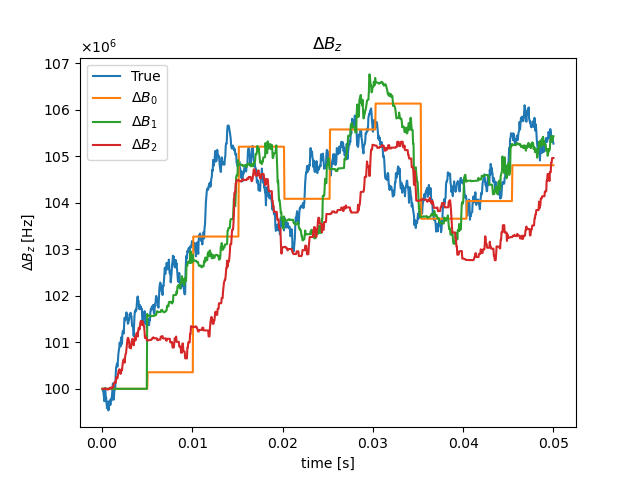
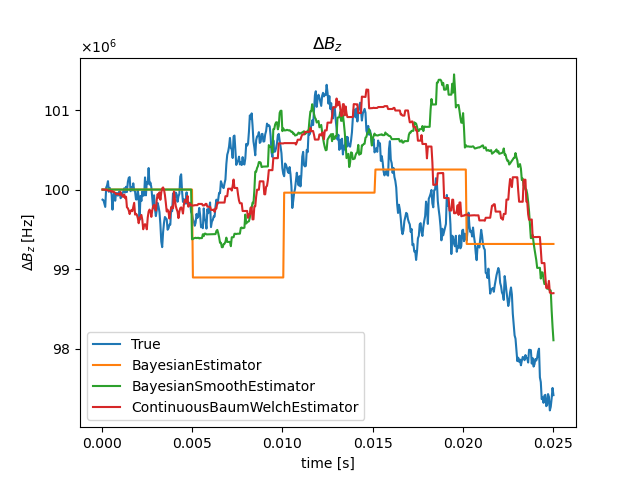
BW Estimator is better than the mere Bayesian one.

diff --git a/dataprocessing/datacollector.py b/dataprocessing/datacollector.py
@@ -7,16 +7,17 @@ import matplotlib.pyplot as plt
 
 
 class DataCollector():
-    def __init__(self):
+    def __init__(self, name_list=[]):
         """
         :params N: number of estimators
         Notes
          * Data structure: {exp_num:int, exp_data:{time:float, ref:float,
              est:list(float)}}
         """
+        self.name_list = name_list
         self.data = []
 
-    def append(self, num_exp, time, ref, *est):
+    def append(self, num_exp, time, ref, est_list):
         """
         :params num_exp: Experiement number
         :params time: Current time
@@ -24,7 +25,7 @@ class DataCollector():
         :params *est: Estimations
         """
         self.data.append({'num_exp': num_exp, 'time': time,
-                         'ref': ref, 'est_list': est})
+                         'ref': ref, 'est_list': est_list})
 
     def mse(self, num_est):
         """
@@ -36,7 +37,7 @@ class DataCollector():
 
         return np.sqrt(res/len(self.data))
 
-    def visualize_exp(self, num_exp, *est):
+    def visualize_exp(self, num_exp, est):
         time = [item['time'] for item in self.data]
         ref = []
         B_list = []
@@ -46,7 +47,7 @@ class DataCollector():
             else:
                 B_list.append([item['est_list'][elem] for item in self.data])
 
-        plt.figure(dpi=100)
+        fig = plt.figure(dpi=100)
         plt.title('$\Delta B_{z}$')
         plt.xlabel('time [s]')
         plt.ylabel('$\Delta B_{z}$ [Hz]')
@@ -55,6 +56,11 @@ class DataCollector():
         if ref:
             plt.plot(time, ref, label='True')
         for i in range(len(B_list)):
-            plt.plot(time, B_list[i], label='$\Delta B_{}$'.format(i))
+            if not self.name_list:
+                plt.plot(time, B_list[i], label='$\Delta B_{}$'.format(i))
+            else:
+                plt.plot(time, B_list[i], label=self.name_list[i])
         plt.legend()
         plt.show()
+
+        return fig

diff --git a/running_demo.py b/running_demo.py
@@ -8,6 +8,14 @@ from tqdm import tqdm
 import numpy as np
 import multiprocessing
 
+# For multiprocessing
+
+def estimator_update(est: Estimator):
+    est.update()
+
+def estimator_estimate(est: Estimator):
+    return est.estimate()
+
 # MAIN
 
 if __name__ == "__main__":
@@ -34,28 +42,33 @@ if __name__ == "__main__":
     estimators = [BayesianEstimator(sys, M, tau, SD_B, B0),
                   BayesianSmoothEstimator(sys, M, tau, SD_B, B0),
                   #BayesianExpSamplingEstimator(sys, M, tau, SD_B, B0, sig),
-                  ContinuousBaumWelchFilter(sys, tau, B0, D, T),
+                  ContinuousBaumWelchEstimator(sys, tau, B0, D, T),
                   #MeanFilter(sys, M, B0)
                   ]
 
     # Data collector definition
-    dc = DataCollector()
+    name_list = [type(estimator).__name__ for estimator in estimators]
+    dc = DataCollector(name_list)
 
-    # Multiprocessing
     pool = multiprocessing.Pool()
 
-    for _ in tqdm(range(1000)):
+    for _ in tqdm(range(500)):
         # Update the system and estimator
         sys.update()
 
-        pool.map(lambda est: est.update(), estimators)
+        for estimator in estimators:
+            estimator.update()
 
-        dc.append(0, sys.time, sys.B,
-                  *[estimator.estimate() for estimator in estimators])
+        estimation = pool.map(estimator_estimate, estimators)
+        #estimation = [estimator.estimate() for estimator in estimators]
+
+        dc.append(0, sys.time, sys.B, estimation)
+
+    pool.close()
 
     # Print the results out
     for i, estimator in enumerate(estimators):
         print("MSE({}): {:.03f}MHz".format(
             type(estimator).__name__, dc.mse(i) / 1e6))
 
-    dc.visualize_exp(0, 'ref', *range(len(estimators)))
+    dc.visualize_exp(0, ['ref', *range(len(estimators))])

diff --git a/estimator/baumwelch.py b/estimator/baumwelch.py
@@ -10,7 +10,7 @@ from matplotlib import pyplot as plt
 
 # CLASSES
 
-class ContinuousBaumWelchFilter(Estimator):
+class ContinuousBaumWelchEstimator(Estimator):
     def __init__(self, sys, tau, B0, D, T):
         Estimator.__init__(self, sys)
         self.alpha = self.sys.alpha
@@ -32,6 +32,7 @@ class ContinuousBaumWelchFilter(Estimator):
 
         self.data.append({'meas_time': meas_time,
                           'result': self.sys.measure(meas_time)})
+
         if len(self.data) > 100:
             self.data.pop(0)
 

diff --git a/README.md b/README.md
@@ -32,8 +32,7 @@
 
    ![Estimator](./Images/Estimators_result.png)
 
-   $\Delta B_i$'s are for Bayesian, Smooth Bayesian, and Baum Welch estimator,
-   respectively. The Bayesians are MAP estimators.
+   The Bayesians are MAP estimators.
 
 ### TODO
    - **Visualization** of an experiment($\Delta B$---$t$ graph) and of
